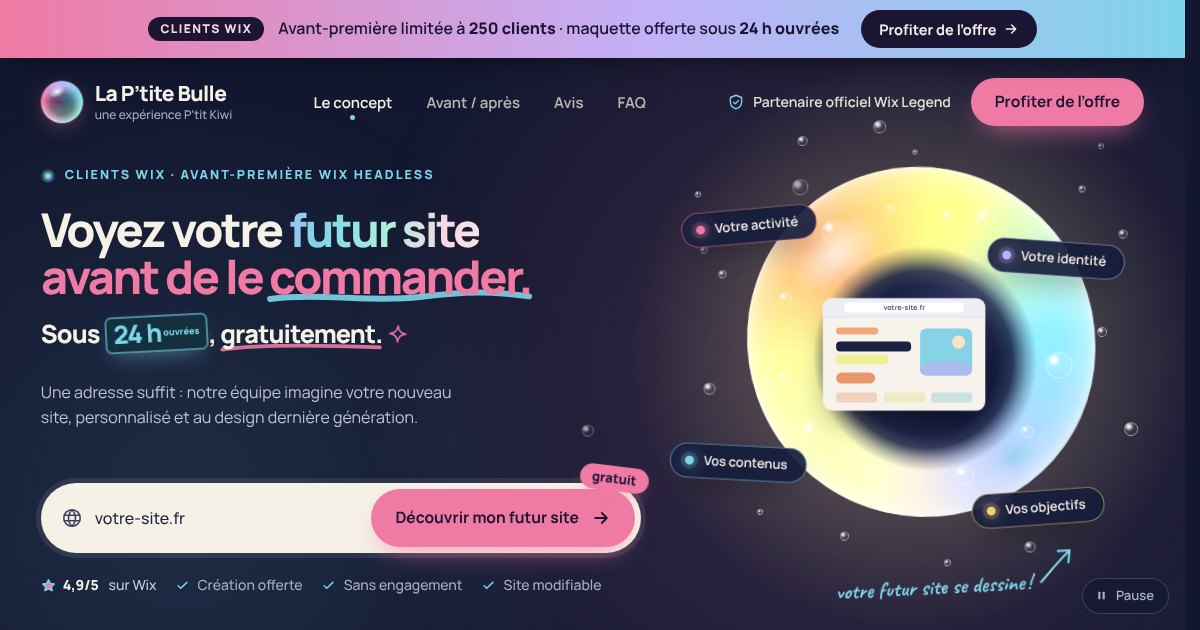
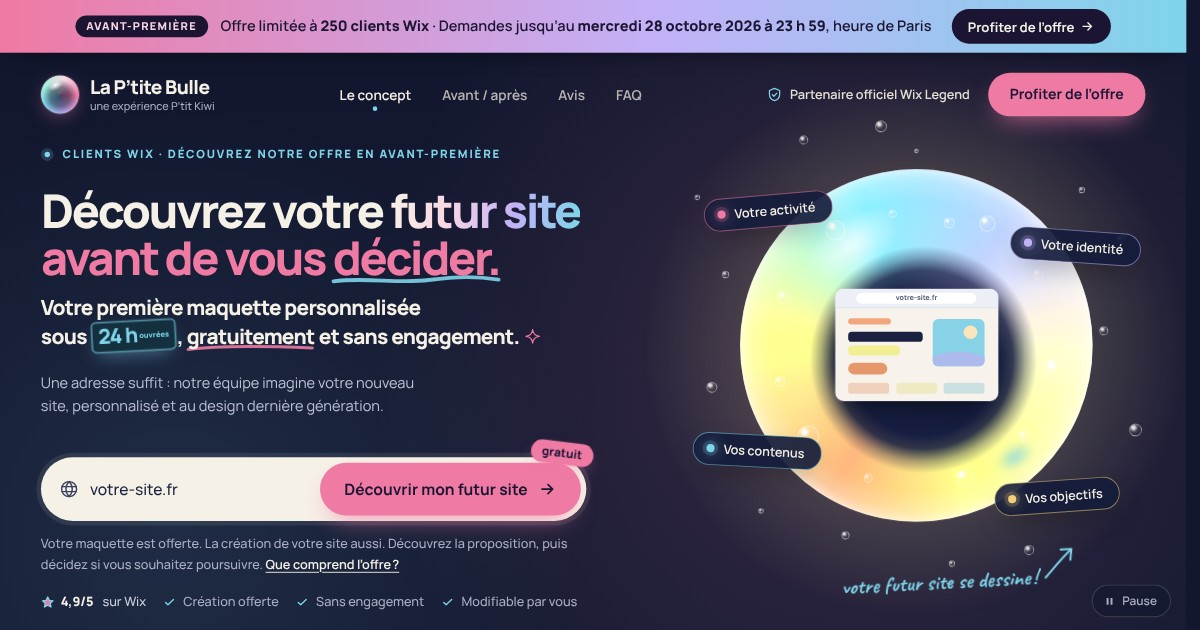
Offre clarifiée : titre, maquette sous 24 h ouvrées, clôture des demandes, FAQ

diff --git a/index.html b/index.html
@@ -3,14 +3,14 @@
 <head>
 <meta charset="utf-8">
 <meta name="viewport" content="width=device-width, initial-scale=1">
-<title>La P’tite Bulle · Voyez votre futur site avant de le commander</title>
-<meta name="description" content="Clients Wix : découvrez en avant-première votre futur site avec Wix Headless, imaginé sous 24 h ouvrées. Création offerte, modifiable, sans engagement.">
+<title>La P’tite Bulle · Découvrez votre futur site avant de vous décider</title>
+<meta name="description" content="Clients Wix, découvrez notre offre en avant-première : votre première maquette personnalisée sous 24 h ouvrées, gratuitement et sans engagement. La création de votre site est également offerte.">
 <meta name="theme-color" content="#12172F">
 <meta property="og:type" content="website">
 <meta property="og:site_name" content="La P’tite Bulle">
 <meta property="og:locale" content="fr_FR">
-<meta property="og:title" content="La P’tite Bulle · Voyez votre futur site avant de le commander">
-<meta property="og:description" content="En avant-première pour les clients Wix : votre futur site imaginé sous 24 h ouvrées avec Wix Headless. Création offerte, modifiable, sans engagement.">
+<meta property="og:title" content="La P’tite Bulle · Découvrez votre futur site avant de vous décider">
+<meta property="og:description" content="Clients Wix, découvrez notre offre en avant-première : votre première maquette personnalisée sous 24 h ouvrées, gratuitement et sans engagement.">
 <meta property="og:url" content="https://la-ptite-bulle-lp.vercel.app/">
 <meta property="og:image" content="https://la-ptite-bulle-lp.vercel.app/og.jpg">
 <meta property="og:image:width" content="1200">
@@ -30,8 +30,8 @@
 <a class="skip" href="#lp-field">Aller au formulaire</a>
 <div id="offer" class="offer-bar" role="region" aria-label="Offre clients Wix">
 <div class="offer-inner wrap">
-<p class="offer-text" aria-hidden="true"><span class="offer-tag">Clients Wix</span><span class="offer-long">Avant-première limitée à <strong>250 clients</strong> · maquette offerte sous <strong>24 h ouvrées</strong></span><span class="offer-short"><strong>250 places</strong><span class="offer-short-x"> · maquette offerte</span></span></p>
-<span class="sr-only">Avant-première réservée aux clients Wix, limitée à 250 clients : maquette offerte sous 24 h ouvrées.</span>
+<p class="offer-text" aria-hidden="true"><span class="offer-tag">Avant-première</span><span class="offer-long">Offre limitée à <strong>250 clients Wix</strong> · Demandes jusqu’au <strong>mercredi 28 octobre 2026 à 23 h 59</strong>, heure de Paris</span><span class="offer-short"><span class="os-count"><strong>250 clients Wix</strong> · </span><span class="os-req">Demandes </span>jusqu’au <strong>28 oct. à 23 h 59</strong></span></p>
+<span class="sr-only">Clients Wix, découvrez notre offre en avant-première. Offre limitée à 250 clients Wix. Demandes jusqu’au mercredi 28 octobre 2026 à 23 h 59, heure de Paris.</span>
 <button type="button" class="offer-cta" data-goto-field>Profiter de l’offre<svg aria-hidden="true" viewBox="0 0 24 24"><path d="M5 12h14M13 6l6 6-6 6"/></svg></button>
 </div>
 </div>
@@ -68,9 +68,9 @@
 
 <div class="hero-main wrap">
 <div class="hero-copy">
-<p class="hero-eyebrow"><span class="pulse-dot" aria-hidden="true"><span></span></span><span class="eb-full">Clients Wix · Avant-première Wix Headless</span><span class="eb-short">Avant-première clients Wix</span></p>
-<h1 id="lp-title" class="hero-title"><span class="w" style="--i:0">Voyez</span> <span class="w" style="--i:1">votre</span> <span class="w iris" style="--i:2">futur site</span><br><span class="pink"><span class="w" style="--i:3">avant</span> <span class="w" style="--i:4">de</span> <span class="nowrap"><span class="w" style="--i:5">le</span> <span class="w swoosh" style="--i:6">commander.<svg aria-hidden="true" viewBox="0 0 400 26"><path d="M6 18 C 80 8, 160 24, 230 15 S 340 6, 394 14"/></svg></span></span></span></h1>
-<p class="promise">Sous <span class="chip-24">24 h<small>ouvrées</small></span>, <span class="promise-tail"><span class="promise-free">gratuitement.<svg aria-hidden="true" viewBox="0 0 300 20"><path d="M4 14 C 60 6, 140 4, 296 10"/></svg></span><svg class="promise-spark" aria-hidden="true" viewBox="0 0 24 24"><path d="M12 2 C12.6 8.2 15.8 11.4 22 12 C15.8 12.6 12.6 15.8 12 22 C11.4 15.8 8.2 12.6 2 12 C8.2 11.4 11.4 8.2 12 2 Z"/></svg></span></p>
+<p class="hero-eyebrow"><span class="pulse-dot" aria-hidden="true"><span></span></span><span class="eb-full"><span class="nowrap">Clients Wix ·</span> Découvrez notre offre en <span class="nowrap">avant-première</span></span></p>
+<h1 id="lp-title" class="hero-title"><span class="w" style="--i:0">Découvrez</span> <span class="w" style="--i:1">votre</span> <span class="w iris" style="--i:2">futur site</span><br><span class="pink"><span class="w" style="--i:3">avant</span> <span class="w" style="--i:4">de</span> <span class="nowrap"><span class="w" style="--i:5">vous</span> <span class="w swoosh" style="--i:6">décider.<svg aria-hidden="true" viewBox="0 0 400 26"><path d="M6 18 C 80 8, 160 24, 230 15 S 340 6, 394 14"/></svg></span></span></span></h1>
+<p class="promise">Votre première maquette personnalisée <span class="nowrap">sous <span class="chip-24">24 h<small>ouvrées</small></span>,</span> <span class="promise-free">gratuitement<svg aria-hidden="true" viewBox="0 0 300 20"><path d="M4 14 C 60 6, 140 4, 296 10"/></svg></span> <span class="promise-tail">et sans engagement.<svg class="promise-spark" aria-hidden="true" viewBox="0 0 24 24"><path d="M12 2 C12.6 8.2 15.8 11.4 22 12 C15.8 12.6 12.6 15.8 12 22 C11.4 15.8 8.2 12.6 2 12 C8.2 11.4 11.4 8.2 12 2 Z"/></svg></span></p>
 
 <p class="lead">Une adresse suffit : notre équipe imagine votre nouveau site, personnalisé et au design dernière génération.</p>
 
@@ -99,9 +99,10 @@
 
 <div id="lp-done" class="done" hidden>
 <span class="done-check" aria-hidden="true"><svg viewBox="0 0 24 24"><path d="M5 12.5l4.2 4L19 7"/></svg></span>
-<span class="done-text" tabindex="-1"><strong>C’est noté ! Votre maquette est en préparation.</strong><span>Nous vous l’envoyons à <span id="lp-done-mail">votre adresse</span>, au plus tard <span class="done-eta">bientôt</span>.</span></span>
+<span class="done-text" tabindex="-1"><strong>C’est noté ! Votre maquette est en préparation.</strong><span>Nous vous l’envoyons à <span id="lp-done-mail">votre adresse</span> sous 24 h ouvrées.</span></span>
 <button type="button" id="lp-restart" class="btn btn-ghost btn-sm">Nouvelle demande</button>
 </div>
+<p class="offer-note">Votre maquette est offerte. La création de votre site aussi. Découvrez la proposition, puis décidez si vous souhaitez poursuivre. <button type="button" class="text-btn" data-open="panel-faq" data-faq="faq-offre">Que comprend l’offre ?</button></p>
 </div>
 
 <p id="lp-status" class="sr-only" role="status"></p>
@@ -111,7 +112,7 @@
 <li class="check-rating"><button type="button" class="rating" data-open="panel-avis" aria-label="4,9/5 sur Wix : voir les 30 avis"><svg aria-hidden="true" width="16" height="16" viewBox="0 0 24 24"><path d="M12 2.8l2.8 5.9 6.4.8-4.7 4.4 1.2 6.4L12 17.2l-5.7 3.1 1.2-6.4L2.8 9.5l6.4-.8z" fill="#EF7AA4"/></svg><strong>4,9/5</strong> sur Wix</button></li>
 <li><svg aria-hidden="true" viewBox="0 0 24 24"><path d="M5 12.5l4.2 4L19 7"/></svg>Création offerte</li>
 <li><svg aria-hidden="true" viewBox="0 0 24 24"><path d="M5 12.5l4.2 4L19 7"/></svg>Sans engagement</li>
-<li><svg aria-hidden="true" viewBox="0 0 24 24"><path d="M5 12.5l4.2 4L19 7"/></svg>Site modifiable</li>
+<li><svg aria-hidden="true" viewBox="0 0 24 24"><path d="M5 12.5l4.2 4L19 7"/></svg>Modifiable par vous</li>
 <li id="lp-toggle-item"><button type="button" id="lp-toggle" class="btn btn-ghost btn-sm">Pas encore de site ?</button></li>
 </ul>
 </div>
@@ -326,18 +327,18 @@
 </div>
 
 <div class="final-inner wrap">
-<p class="eyebrow final-eyebrow"><span class="pulse-dot" aria-hidden="true"><span></span></span><span class="nowrap">Clients Wix ·</span> <span class="nowrap">Avant-première Wix Headless</span></p>
+<p class="eyebrow final-eyebrow"><span class="pulse-dot" aria-hidden="true"><span></span></span><span><span class="nowrap">Clients Wix ·</span> Découvrez notre offre en <span class="nowrap">avant-première</span></span></p>
 <h2 id="final-title" class="final-title">Prêt à découvrir<br><span class="final-iris">votre futur site ?</span></h2>
 <p class="final-lead">Une adresse suffit pour commencer : celle de votre site.</p>
 
 <div class="final-zone">
 <ul class="sr-only">
-<li>Création offerte</li><li>Sans engagement</li><li>Site modifiable</li><li>Design dernière génération</li><li>Avec Wix Headless</li>
+<li>Création offerte</li><li>Sans engagement</li><li>Modifiable par vous</li><li>Design dernière génération</li><li>Avec Wix Headless</li>
 </ul>
 <div class="pops" aria-hidden="true">
 <span class="pop" style="--px:-16%;--py:40px;--ps:118px;--pd:7s;--pdl:-1s;--pc:239,122,164"><span class="pop-ball"></span><span class="pop-label">Offerte</span><span class="pop-drops"><i></i><i></i><i></i><i></i><i></i><i></i></span></span>
 <span class="pop" style="--px:116%;--py:24px;--ps:132px;--pd:8s;--pdl:-3s;--pc:127,212,234"><span class="pop-ball"></span><span class="pop-label">Sans engagement</span><span class="pop-drops"><i></i><i></i><i></i><i></i><i></i><i></i></span></span>
-<span class="pop" style="--px:-20%;--py:220px;--ps:124px;--pd:7.5s;--pdl:-2s;--pc:195,177,247"><span class="pop-ball"></span><span class="pop-label">Modifiable</span><span class="pop-drops"><i></i><i></i><i></i><i></i><i></i><i></i></span></span>
+<span class="pop" style="--px:-20%;--py:220px;--ps:124px;--pd:7.5s;--pdl:-2s;--pc:195,177,247"><span class="pop-ball"></span><span class="pop-label">Modifiable <span class="nowrap">par vous</span></span><span class="pop-drops"><i></i><i></i><i></i><i></i><i></i><i></i></span></span>
 <span class="pop" style="--px:115%;--py:262px;--ps:112px;--pd:6.5s;--pdl:-4s;--pc:243,207,122"><span class="pop-ball"></span><span class="pop-label">Dernière génération</span><span class="pop-drops"><i></i><i></i><i></i><i></i><i></i><i></i></span></span>
 <span class="pop" style="--px:127%;--py:146px;--ps:116px;--pd:8.5s;--pdl:-5s;--pc:168,238,219"><span class="pop-ball"></span><span class="pop-label">Wix Headless</span><span class="pop-drops"><i></i><i></i><i></i><i></i><i></i><i></i></span></span>
 </div>
@@ -365,22 +366,22 @@
 </div>
 <div id="fin-done" class="done final-done" hidden>
 <span class="done-check" aria-hidden="true"><svg viewBox="0 0 24 24"><path d="M5 12.5l4.2 4L19 7"/></svg></span>
-<span class="done-text" tabindex="-1"><strong>C’est noté ! Votre maquette est en préparation.</strong><span>Nous vous l’envoyons à <span id="fin-done-mail">votre adresse</span>, au plus tard <span class="done-eta">bientôt</span>.</span></span>
+<span class="done-text" tabindex="-1"><strong>C’est noté ! Votre maquette est en préparation.</strong><span>Nous vous l’envoyons à <span id="fin-done-mail">votre adresse</span> sous 24 h ouvrées.</span></span>
 <button type="button" id="fin-restart" class="btn btn-ghost btn-sm">Nouvelle demande</button>
 </div>
 <p id="fin-status" class="sr-only" role="status"></p>
 <div class="eta">
 <span class="eta-dot" aria-hidden="true"></span>
-<p class="eta-main">Demandez maintenant : votre maquette arrive au plus tard <strong class="eta-when">très vite</strong>.</p>
-<p class="eta-sub"><span class="eta-date"></span>24 h ouvrées, heure de Paris</p>
+<p class="eta-main">Votre première maquette personnalisée sous <strong>24 h ouvrées</strong>, gratuitement et sans engagement.</p>
+<p class="eta-sub">La création de votre site est offerte aussi. <button type="button" class="text-btn" data-open="panel-faq" data-faq="faq-offre">Que comprend l’offre ?</button></p>
 </div>
-<p class="final-note">Création de votre site offerte, modifiable, sans engagement. Avant-première limitée à 250 clients Wix.</p>
+<p class="final-note">Offre limitée à <strong>250 clients Wix</strong> · Demandes jusqu’au <strong class="nowrap">mercredi 28 octobre 2026</strong> <strong class="nowrap">à 23 h 59</strong>, heure de Paris.</p>
 </div>
 </div>
 
 <ol class="timeline">
 <li class="tl-item"><span class="tl-dot" aria-hidden="true"><svg viewBox="0 0 24 24"><circle cx="12" cy="12" r="9"/><path d="M3.5 9h17M3.5 15h17M12 3c2.6 2.6 3.8 5.6 3.8 9s-1.2 6.4-3.8 9c-2.6-2.6-3.8-5.6-3.8-9S9.4 5.6 12 3z"/></svg></span><span class="tl-when">Vous cliquez.</span><span class="tl-what">Vous indiquez l’adresse de votre site actuel.</span></li>
-<li class="tl-item"><span class="tl-dot" aria-hidden="true"><svg viewBox="0 0 24 24"><path d="M12 2 C12.6 8.2 15.8 11.4 22 12 C15.8 12.6 12.6 15.8 12 22 C11.4 15.8 8.2 12.6 2 12 C8.2 11.4 11.4 8.2 12 2 Z"/></svg></span><span class="tl-when">Vous explorez.</span><span class="tl-what">Votre maquette arrive sous 24 h ouvrées, navigable comme un vrai site.</span></li>
+<li class="tl-item"><span class="tl-dot" aria-hidden="true"><svg viewBox="0 0 24 24"><path d="M12 2 C12.6 8.2 15.8 11.4 22 12 C15.8 12.6 12.6 15.8 12 22 C11.4 15.8 8.2 12.6 2 12 C8.2 11.4 11.4 8.2 12 2 Z"/></svg></span><span class="tl-when">Vous explorez.</span><span class="tl-what">Votre première maquette personnalisée arrive sous 24 h ouvrées, navigable comme un vrai site.</span></li>
 <li class="tl-item"><span class="tl-dot" aria-hidden="true"><svg viewBox="0 0 24 24"><path d="M5 12.5l4.2 4L19 7"/></svg></span><span class="tl-when">Vous décidez.</span><span class="tl-what">Elle vous plaît : votre site est créé, offert et sans engagement.</span></li>
 </ol>
 
@@ -437,13 +438,19 @@
 <button type="button" class="close" data-close aria-label="Fermer"><svg aria-hidden="true" viewBox="0 0 24 24"><path d="M6 6l12 12M18 6L6 18"/></svg></button>
 </div>
 <div class="faq">
-<details><summary>Qui peut en profiter ?<span class="chev" aria-hidden="true"></span></summary><p>Les clients Wix, en avant-première, dans la limite de 250 clients. Chaque demande est traitée sous 24 h ouvrées, heure de Paris.</p></details>
-<details open><summary>La création est-elle vraiment offerte ?<span class="chev" aria-hidden="true"></span></summary><p>Oui. La maquette et la création de votre site web sont offertes, sans engagement : aucun paiement, aucune carte bancaire.</p></details>
+<details><summary>Qui peut en profiter ?<span class="chev" aria-hidden="true"></span></summary><p>Les clients Wix, qui découvrent notre offre en avant-première, dans la limite de 250 clients. Demandes jusqu’au mercredi 28 octobre 2026 à 23 h 59, heure de Paris.</p></details>
+<details id="faq-offre" open><summary>Que comprend l’offre ?<span class="chev" aria-hidden="true"></span></summary><div class="faq-body">
+<ul class="faq-list">
+<li><strong>Votre maquette, offerte.</strong> Votre première maquette personnalisée et navigable, sous 24 h ouvrées, gratuitement et sans engagement.</li>
+<li><strong>La création de votre site, offerte aussi.</strong> Si la maquette vous plaît et que vous souhaitez poursuivre, nous créons votre site après validation de la maquette.</li>
+</ul>
+<p>Demander votre maquette ne nécessite aucun paiement ni carte bancaire.</p>
+</div></details>
 <details><summary>Que vais-je recevoir exactement ?<span class="chev" aria-hidden="true"></span></summary><p>Une maquette navigable de votre nouveau site, personnalisée pour votre activité et au design dernière génération : vous l’explorez comme un vrai site, sur ordinateur comme sur mobile.</p></details>
-<details><summary>En combien de temps ?<span class="chev" aria-hidden="true"></span></summary><p>Sous 24 h ouvrées après votre demande, week-ends et jours fériés exclus : nous vous envoyons le lien de votre maquette par e-mail.</p></details>
-<details><summary>Et après la maquette ?<span class="chev" aria-hidden="true"></span></summary><p>Vous décidez. Si elle vous plaît, nous créons votre site, offert et modifiable. Sinon, vous en restez là, sans engagement.</p></details>
-<details><summary>Sur quelle plateforme sera mon site ?<span class="chev" aria-hidden="true"></span></summary><p>Sur Wix Headless, le nouvel outil de création web de Wix : un design sur mesure et dernière génération, avec vos contenus toujours gérés depuis votre tableau de bord Wix. La P’tite Bulle est partenaire officiel Wix Legend, et partenaire Wix depuis 2019.</p></details>
-<details><summary>Mon site sera-t-il modifiable ?<span class="chev" aria-hidden="true"></span></summary><p>Oui. Votre site est modifiable : vous gardez la main sur vos textes, vos photos et vos contenus depuis votre tableau de bord Wix.</p></details>
+<details><summary>En combien de temps ?<span class="chev" aria-hidden="true"></span></summary><p>Votre première maquette personnalisée sous 24 h ouvrées après votre demande, week-ends et jours fériés exclus : nous vous envoyons son lien par e-mail. Ce délai concerne la maquette, pas le site final.</p></details>
+<details><summary>Et après la maquette ?<span class="chev" aria-hidden="true"></span></summary><p>Vous décidez. Si elle vous plaît et que vous souhaitez poursuivre, nous créons votre site : sa création est offerte. Sinon, vous en restez là, sans engagement.</p></details>
+<details><summary>Sur quelle plateforme sera mon site ?<span class="chev" aria-hidden="true"></span></summary><p>Sur Wix Headless. Notre offre de création de site web avec Wix Headless vous apporte un design sur mesure et dernière génération, avec vos contenus toujours gérés depuis votre tableau de bord Wix. La P’tite Bulle est partenaire officiel Wix Legend, et partenaire Wix depuis 2019.</p></details>
+<details><summary>Mon site sera-t-il modifiable ?<span class="chev" aria-hidden="true"></span></summary><p>Oui, par vous : vous gardez la main sur vos textes, vos photos et vos contenus, et vous les modifiez vous-même depuis votre tableau de bord Wix.</p></details>
 </div>
 <div class="ask">
 <p class="ask-title">Une autre question ?</p>

diff --git a/main.js b/main.js
@@ -44,7 +44,6 @@
       wrap: $('#' + p + '-form-wrap'),
       done: $('#' + p + '-done'),
       doneMail: $('#' + p + '-done-mail'),
-      doneEta: $('#' + p + '-done .done-eta'),
       restart: $('#' + p + '-restart'),
       toggle: $('#' + p + '-toggle'),
       toggleHide: $('#' + p + '-toggle-item') || $('#' + p + '-toggle'),
@@ -56,7 +55,7 @@
   const heroView = views[0];
   const endpoint = (heroView.form.dataset.endpoint || '').trim();
 
-  const state = { step: 1, site: '', email: '', noSite: false, nudge: false, error: '', sending: false, boing: 0, active: heroView, eta: '' };
+  const state = { step: 1, site: '', email: '', noSite: false, nudge: false, error: '', sending: false, boing: 0, active: heroView };
   let nudgeTimer = 0;
 
   function announce(view, message) {
@@ -108,7 +107,6 @@
       v.label.style.visibility = isDone ? 'hidden' : '';
     }
     setText(v.doneMail, state.email.trim() || 'votre adresse');
-    if (v.doneEta) setText(v.doneEta, state.eta || 'sous 24' + NB + 'h ouvrées');
     setHidden(v.toggleHide, state.step !== 1);
     setText(v.toggle, state.noSite ? 'J’ai déjà un site' : 'Pas encore de site' + NNB + '?');
     setHidden(v.edit, !isStep2);
@@ -291,7 +289,6 @@
           fail(v, 'L’envoi n’a pas abouti. Réessayez dans un instant.');
           return;
         }
-        state.eta = etaInfo().when;
         state.step = 3;
         render();
         bounce();
@@ -379,91 +376,6 @@
   if (hasEnd && !document.documentElement.classList.contains('offer-ended')) offerTimer = setInterval(offerTick, 1000);
   window.addEventListener('resize', syncBarHeight);
   document.addEventListener('visibilitychange', () => { if (!document.hidden) offerTick(); });
-
-  /* ---------- Heure de livraison : 24 h ouvrées, heure de Paris ---------- */
-
-  const DAY = 86400000;
-  const DAYS = ['dimanche', 'lundi', 'mardi', 'mercredi', 'jeudi', 'vendredi', 'samedi'];
-  const MONTHS = ['janvier', 'février', 'mars', 'avril', 'mai', 'juin', 'juillet', 'août', 'septembre', 'octobre', 'novembre', 'décembre'];
-  const holidayCache = {};
-
-  function easterUTC(y) {
-    const a = y % 19, b = Math.floor(y / 100), c = y % 100, d = Math.floor(b / 4), e = b % 4;
-    const f = Math.floor((b + 8) / 25), g = Math.floor((b - f + 1) / 3), h = (19 * a + b - d - g + 15) % 30;
-    const i = Math.floor(c / 4), k = c % 4, l = (32 + 2 * e + 2 * i - h - k) % 7, m = Math.floor((a + 11 * h + 22 * l) / 451);
-    const month = Math.floor((h + l - 7 * m + 114) / 31);
-    const day = ((h + l - 7 * m + 114) % 31) + 1;
-    return Date.UTC(y, month - 1, day);
-  }
-
-  function holidays(y) {
-    if (holidayCache[y]) return holidayCache[y];
-    const set = new Set([[0, 1], [4, 1], [4, 8], [6, 14], [7, 15], [10, 1], [10, 11], [11, 25]].map(([mo, d]) => Date.UTC(y, mo, d)));
-    const easter = easterUTC(y);
-    [1, 39, 50].forEach((n) => set.add(easter + n * DAY));
-    holidayCache[y] = set;
-    return set;
-  }
-
-  function parisNow() {
-    try {
-      const parts = new Intl.DateTimeFormat('en-GB', {
-        timeZone: 'Europe/Paris', year: 'numeric', month: '2-digit', day: '2-digit', hour: '2-digit', minute: '2-digit', hourCycle: 'h23'
-      }).formatToParts(new Date());
-      const get = (type) => Number(parts.find((x) => x.type === type).value);
-      return Date.UTC(get('year'), get('month') - 1, get('day'), get('hour') % 24, get('minute'));
-    } catch (e) {
-      const d = new Date();
-      return Date.UTC(d.getFullYear(), d.getMonth(), d.getDate(), d.getHours(), d.getMinutes());
-    }
-  }
-
-  function businessDeadline(start, hours) {
-    let t = start;
-    let left = hours * 3600000;
-    for (let guard = 0; guard < 40; guard++) {
-      const day = Math.floor(t / DAY) * DAY;
-      const date = new Date(day);
-      const wd = date.getUTCDay();
-      if (wd === 0 || wd === 6 || holidays(date.getUTCFullYear()).has(day)) { t = day + DAY; continue; }
-      const available = day + DAY - t;
-      if (left <= available) return t + left;
-      left -= available;
-      t = day + DAY;
-    }
-    return t;
-  }
-
-  function etaInfo() {
-    const now = parisNow();
-    let dl = Math.ceil(businessDeadline(now, 24) / 3600000) * 3600000;
-    let evening = false;
-    let morning = false;
-    if (dl % DAY === 0) { dl -= 60000; evening = true; }
-    else if (new Date(dl).getUTCHours() < 8) { morning = true; }
-    const d = new Date(dl);
-    const diff = Math.round((Math.floor(dl / DAY) - Math.floor(now / DAY)));
-    const dayName = diff === 0 ? 'aujourd’hui' : diff === 1 ? 'demain' : DAYS[d.getUTCDay()];
-    const when = evening
-      ? (diff === 0 ? 'ce' + NB + 'soir' : dayName + NB + 'soir')
-      : morning
-      ? dayName + ' matin'
-      : dayName + ' avant ' + d.getUTCHours() + NB + 'h';
-    const n = d.getUTCDate();
-    const full = DAYS[d.getUTCDay()] + ' ' + n + (n === 1 ? 'er' : '') + ' ' + MONTHS[d.getUTCMonth()];
-    return { when, date: full.charAt(0).toUpperCase() + full.slice(1) };
-  }
-
-  const etaWhen = $$('.eta-when');
-  const etaDate = $$('.eta-date');
-  function updateEta() {
-    const info = etaInfo();
-    etaWhen.forEach((el) => setText(el, info.when));
-    etaDate.forEach((el) => setText(el, info.date));
-  }
-  updateEta();
-  setInterval(updateEta, 60000);
-  document.addEventListener('visibilitychange', () => { if (!document.hidden) updateEta(); });
 
   /* ---------- La bulle : ouverture, palette et réactions à la souris ---------- */
 
@@ -857,6 +769,19 @@
   $$('[data-open]').forEach((btn) => btn.addEventListener('click', () => {
     const dialog = document.getElementById(btn.dataset.open);
     if (dialog && !dialog.open) dialog.showModal();
+    // Lien « Que comprend l’offre ? » : ouvre directement la bonne réponse de la FAQ.
+    const item = btn.dataset.faq ? document.getElementById(btn.dataset.faq) : null;
+    if (dialog && item && dialog.contains(item)) {
+      item.open = true;
+      const summary = item.querySelector('summary');
+      requestAnimationFrame(() => {
+        const r = item.getBoundingClientRect();
+        if (r.top < 0 || r.bottom > window.innerHeight) {
+          try { item.scrollIntoView({ block: 'start' }); } catch (e) { item.scrollIntoView(); }
+        }
+        try { summary.focus({ preventScroll: true }); } catch (e) { summary.focus(); }
+      });
+    }
   }));
   $$('dialog.panel').forEach((dialog) => {
     let downOnBackdrop = false;

diff --git a/styles.css b/styles.css
@@ -796,8 +796,6 @@ section[id],#lp-field,#fin-field{scroll-margin-top:calc(var(--bar-h) + 16px)}
 @media (max-width:380px) and (max-height:700px){.hero-title{font-size:32px}.hero-copy{gap:12px}}
 @media (max-height:500px){.hero-title{font-size:28px}.hero-copy{gap:8px}}
 
-.eb-short{display:none}
-@media (max-width:480px){.eb-full{display:none}.eb-short{display:inline}}
 
 /* v16 : encore plus d'air */
 .hero-copy{gap:clamp(20px,3.4vh,40px)}
@@ -939,6 +937,50 @@ html{scrollbar-gutter:stable}
 @media (min-width:1180px) and (min-height:560px){:root{--bar-h:58px}}
 @media (min-width:1900px) and (min-height:560px){:root{--bar-h:64px}}
 @media (max-width:640px){.tb-more{display:none}}
+
+/* v24 : offre clarifiée (titre, promesse, note près du formulaire, clôture des demandes) */
+/* Bandeau : date limite des demandes en entier dès que la place le permet */
+@media (min-width:861px) and (max-width:1279px){.offer-tag{display:none}}
+.os-req{display:none}
+@media (min-width:601px),(min-width:420px) and (max-width:480px),(max-width:340px){.os-req{display:inline}}
+@media (max-width:340px){.os-count{display:none}}
+/* Surtitre : sur deux lignes si besoin, pastille alignée sur la première */
+.hero-eyebrow{align-items:flex-start;line-height:1.5;text-wrap:balance}
+.hero-eyebrow .pulse-dot{margin-top:2px}
+/* Titre : « Découvrez votre futur site » tient sur une ligne */
+@media (min-width:1080px){:root .hero .hero-title{font-size:clamp(36px,min(8.3cqw,7.4vh),90px)}}
+@media (min-width:1900px){:root .hero .hero-title{font-size:clamp(44px,min(8.3cqw,7.4vh),96px)}}
+/* Promesse : la maquette, le délai et la gratuité dans une seule phrase */
+.promise{line-height:1.25;text-wrap:balance}
+.promise-free{margin-right:.04em}
+@media (min-width:1080px){
+  :root .hero .promise{font-size:clamp(19px,min(3.9cqw,3.3vh),38px);margin-top:clamp(10px,2.2vh,28px)}
+  :root .hero .lead{margin-top:clamp(12px,3vh,48px)}
+  :root .hero .field-block{margin-top:clamp(16px,4.2vh,72px)}
+  :root .hero .hero-extra{margin-top:clamp(10px,2.2vh,32px)}
+}
+@media (max-width:1079px){.promise{font-size:clamp(19px,2.2vw,24px)}}
+@media (max-width:560px){.promise{font-size:clamp(17px,4.9vw,21px)}}
+@media (max-width:380px) and (max-height:700px){.promise{font-size:17px}}
+@media (max-height:500px){.promise{font-size:16px}}
+/* Tablette en deux colonnes : le contenu, un peu plus haut, ne passe pas sous le bouton Pause */
+@media (min-width:960px) and (max-width:1079px){.hero-main{padding-bottom:72px}}
+/* Note près du formulaire et lien vers la FAQ */
+.offer-note{margin:0;font-weight:500;font-size:14px;line-height:1.5;color:var(--muted-2);text-wrap:pretty}
+.offer-note .text-btn,.eta-sub .text-btn{font-size:inherit;color:var(--cream);white-space:nowrap}
+@media (max-height:500px){.offer-note{font-size:13px}}
+/* Section finale : délai de la maquette, puis clôture des demandes */
+.final-note{font-size:13.5px;line-height:1.5;color:#D9DCE8}
+.final-note strong{font-weight:800;color:var(--cream)}
+/* FAQ : « Que comprend l’offre ? » */
+.faq details{scroll-margin-top:16px}
+.faq-body{display:flex;flex-direction:column;gap:12px;padding:0 20px 20px}
+.faq .faq-body p{padding:0;animation:none}
+.faq details[open] .faq-body{animation:rise-in .35s ease both}
+.faq-list{list-style:none;margin:0;padding:0;display:flex;flex-direction:column;gap:12px}
+.faq-list li{position:relative;padding-left:20px;font-weight:500;font-size:15px;line-height:1.6;color:var(--muted)}
+.faq-list li::before{content:"";position:absolute;left:2px;top:.6em;width:8px;height:8px;border-radius:50%;background:var(--cyan)}
+.faq-list strong{display:block;font-weight:700;color:var(--cream)}
 
 @media (prefers-reduced-motion:reduce){
   html{scroll-behavior:auto}

diff --git a/README.md b/README.md
@@ -4,7 +4,7 @@ Landing page de La P’tite Bulle, une expérience P’tit Kiwi.
 
 - **Écran 1** : la bulle naît à l’ouverture, suit la souris et prend une palette unique selon l’adresse tapée. Le formulaire se fait en deux temps (adresse ou activité, puis e-mail).
 - **Écran 2** : au défilement, la section se fige et le rouleau repeint un site daté en site moderne.
-- **Écran final** : « Prêt à souffler votre bulle ? », avec une bulle géante qui monte au défilement, le même formulaire que la hero (état partagé entre les deux), l’heure de livraison calculée en direct (24 h ouvrées, heure de Paris, week-ends et jours fériés français exclus) et des bulles d’arguments à faire éclater.
+- **Écran final** : « Prêt à souffler votre bulle ? », avec une bulle géante qui monte au défilement, le même formulaire que la hero (état partagé entre les deux), le délai de la première maquette (« sous 24 h ouvrées », sans heure précise affichée), la date limite des demandes et des bulles d’arguments à faire éclater.
 - **Avis et FAQ** : panneaux natifs (`<dialog>`) qui s’ouvrent par-dessus la page.
 
 Site statique en HTML, CSS et JavaScript, sans étape de construction. Les polices (Manrope, Bricolage Grotesque, Caveat, licence OFL) sont hébergées dans `fonts/`.
@@ -26,9 +26,11 @@ Données envoyées : `type` (site ou activité), `site`, `email`, `origine` (her
 
 Hébergé sur Vercel : chaque `git push` sur `main` met le site à jour.
 
-## Date de fin (facultatif)
+## Date de fin
 
-L’offre n’a plus de date de fin. Pour remettre un compte à rebours réel, ajoutez `data-end="AAAA-MM-JJTHH:MM:SSZ"` (heure UTC) sur `<div id="offer">` et rétablissez le minuteur dans le bandeau : à l’échéance, la page passe en mode « offre terminée ».
+La clôture des demandes (« Offre limitée à 250 clients Wix · Demandes jusqu’au mercredi 28 octobre 2026 à 23 h 59, heure de Paris ») est écrite en texte fixe dans `index.html` : bandeau d’offre (versions longue et courtes), note sous le formulaire final, FAQ « Qui peut en profiter ? » et texte pour lecteurs d’écran du bandeau. Pour changer la date, modifiez ces quatre endroits. Aucun compte à rebours n’est actif et rien ne change automatiquement à l’échéance.
+
+Facultatif : pour remettre un compte à rebours réel, ajoutez `data-end="AAAA-MM-JJTHH:MM:SSZ"` (heure UTC) sur `<div id="offer">` et rétablissez le minuteur dans le bandeau : à l’échéance, la page passe en mode « offre terminée ».
 
 ## Enregistrement des contacts (Vercel + Upstash Redis)
 
